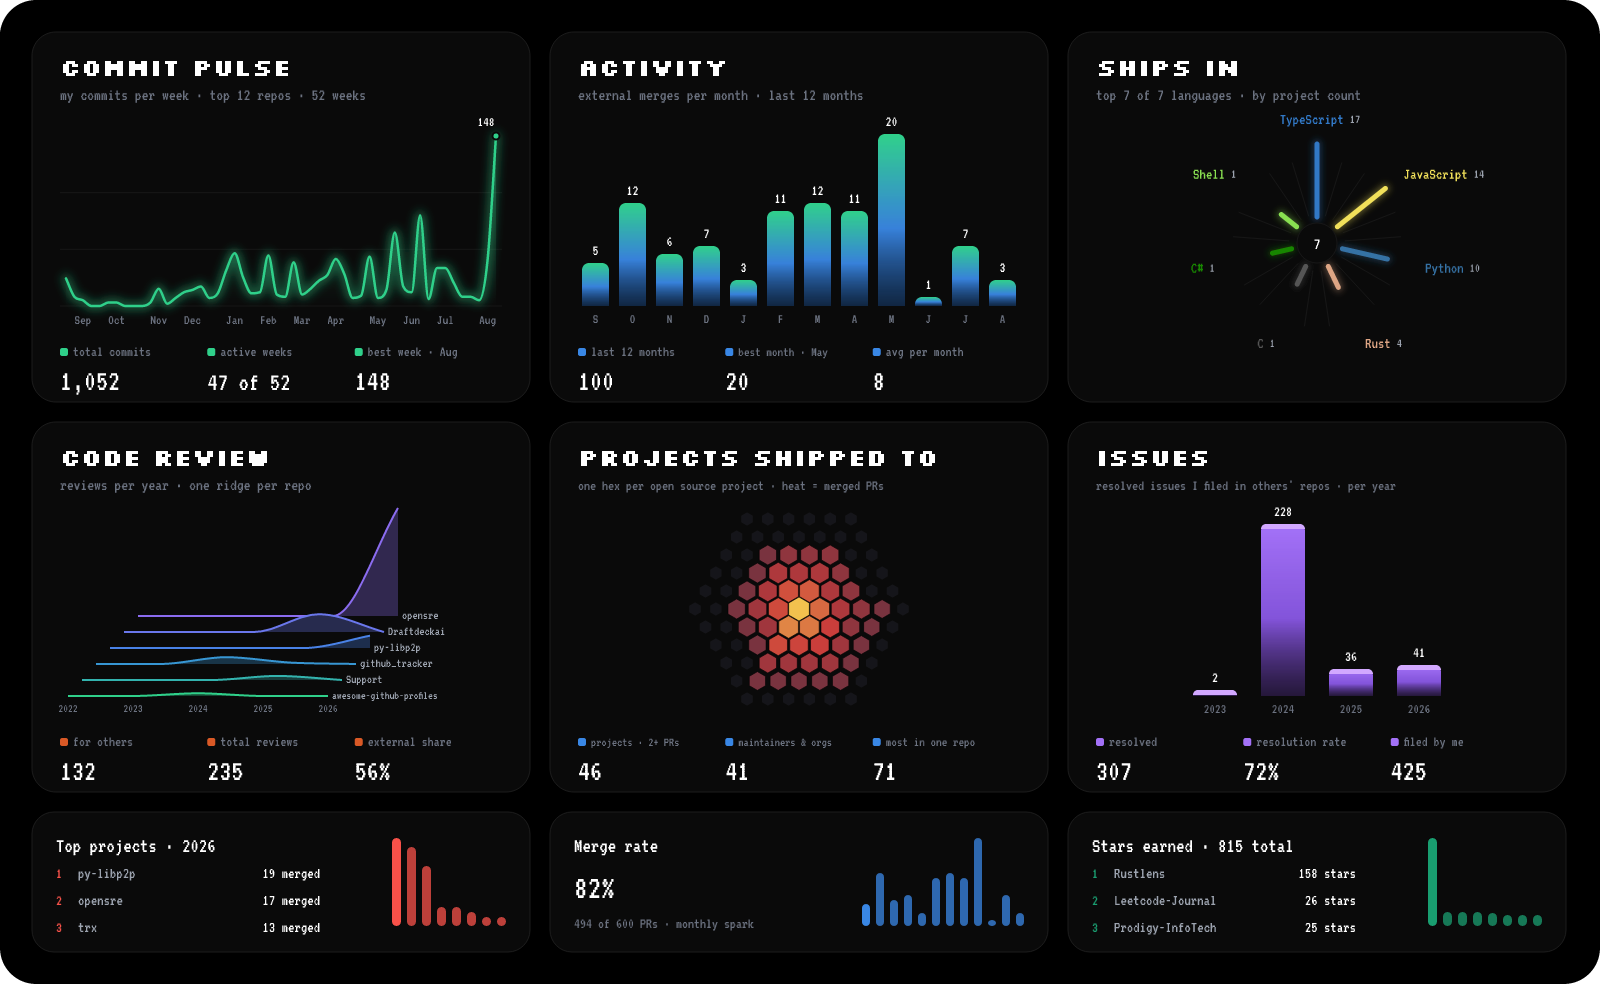
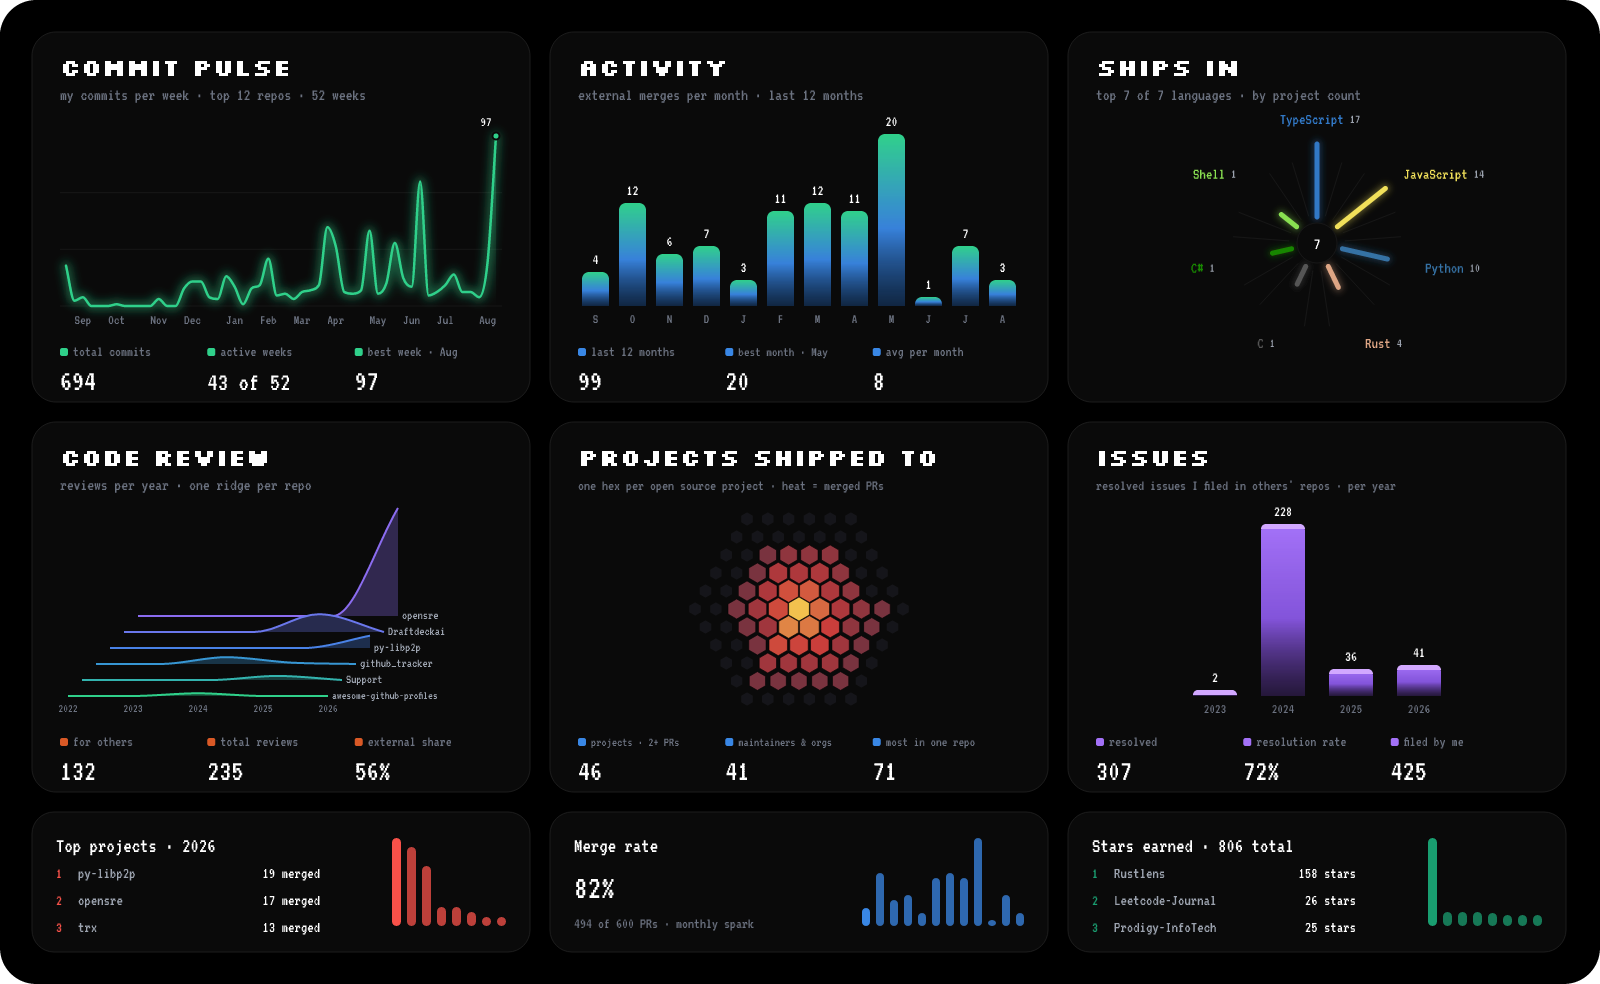
chore: prepare the 1.3.0 release
Changelog for the commit pulse card, the TUI type system, the colour
balance and the benched pull-requests card; README examples pin the new
release version and the fonts section describes the new faces.

diff --git a/README.md b/README.md
@@ -37,7 +37,7 @@ jobs:
       contents: write
     steps:
       - uses: actions/checkout@v4
-      - uses: yashksaini-coder/GitBanner@v1
+      - uses: yashksaini-coder/GitBanner@v1.3.0
         with:
           github-token: ${{ secrets.GITBANNER_PAT }}
 ```
@@ -50,7 +50,9 @@ jobs:
 
 ### Pin to a commit SHA for stricter supply-chain safety
 
-`@v1` floats to the latest release in the v1 series. For full immutability, pin to a commit SHA:
+The examples pin the current release, `v1.3.0`. `@v1` floats to the latest
+release in the v1 series if you'd rather track it. For full immutability, pin
+to a commit SHA:
 
 ```yaml
 - uses: yashksaini-coder/GitBanner@<full-sha>
@@ -229,7 +231,7 @@ The period appears on the pull-requests and activity cards.
 
 ```yaml
 # A "what I shipped last month" card
-- uses: yashksaini-coder/GitBanner@v1
+- uses: yashksaini-coder/GitBanner@v1.3.0
   with:
     github-token: ${{ secrets.GITBANNER_PAT }}
     since: 2026-07-01
@@ -256,7 +258,7 @@ needs and skips everything nothing asked for.
 ```yaml
 # Pure external-contribution banner. Skips repository pagination entirely,
 # because no selected tile needs your own repos.
-- uses: yashksaini-coder/GitBanner@v1
+- uses: yashksaini-coder/GitBanner@v1.3.0
   with:
     github-token: ${{ secrets.GITBANNER_PAT }}
     tiles: activity,reviews
@@ -275,11 +277,14 @@ workflow can't quietly delete a tile.
 
 ## Fonts
 
-Inter and JetBrains Mono subsets are embedded in every SVG as `@font-face`
-data URIs, and the PNG renderer loads the same subsets with system fonts
-disabled — the card renders identically on every machine and in every browser.
-Regenerate the subsets with `npm run build:fonts`. (U+2605 ★ is not in either
-face; rendered text spells out "stars" instead.)
+The banner wears a 16-bit CLI/TUI type system: Silkscreen carries the card
+titles and VT323 carries everything that can hold a number — values,
+captions, labels and ticks, whose terminal digits stay unambiguous at every
+size. Both subsets are embedded in every SVG as `@font-face` data URIs, and
+the PNG renderer loads the same subsets with system fonts disabled — the card
+renders identically on every machine and in every browser. Regenerate the
+subsets with `npm run build:fonts`. (U+2605 ★ is not in either face; rendered
+text spells out "stars" instead.)
 
 ## Why the drive-by filter exists
 

diff --git a/CHANGELOG.md b/CHANGELOG.md
@@ -5,6 +5,41 @@ All notable changes to GitBanner will be documented in this file.
 The format is based on [Keep a Changelog](https://keepachangelog.com/en/1.1.0/),
 and this project adheres to [Semantic Versioning](https://semver.org/spec/v2.0.0.html).
 
+## [1.3.0] - 2026-08-12
+
+### Added
+
+- **Commit pulse card** in slot 1: my commits per week over the trailing 52
+  weeks as a gradient area wave with month ticks at true month boundaries.
+  Data comes from the REST participation endpoint — the `owner` series summed
+  across my 12 most recently pushed own repos; 202-pending repos are retried
+  then skipped and the caption states how many repos the sum covers. Private
+  repos are sampled only with `include-private` (counts only, never names).
+  Stat trio: total commits, active weeks of 52, best week with its month.
+
+### Changed
+
+- **16-bit CLI/TUI type system.** Silkscreen 700 carries the card titles and
+  VT323 carries every class that can hold a number — display values,
+  captions, stat labels, ticks, mini titles and radar names. The split is
+  digit honesty: Pixelify Sans was tried for body text and rejected because
+  its pixel-grid glyphs blur at card sizes (5 read as 8, C as G); VT323's
+  terminal digits stay unambiguous at every size on this canvas. The embedded
+  subsets shrank from 44KB to 16KB of woff2.
+- The commit pulse wears green (the activity ramp's cap hue, tying the two
+  cadence cards) and the Top projects mini wears red, so the mini row reads
+  red / blue / green.
+- The pulse's first stat label is 'total commits' — the 52-week scope already
+  lives in the caption, and repeating it overflowed the column.
+
+### Removed
+
+- **The Pull requests card is benched, not deleted**: its tile block, the
+  popularitySpectrum payload field, the bucketByPopularity builder and its
+  tests are commented out in place with restore notes. `merged-prs` is no
+  longer a valid `tiles` key while benched; every other card still fetches
+  merged-PR pages as before.
+
 ## [1.2.1] - 2026-08-11
 
 ### Fixed
